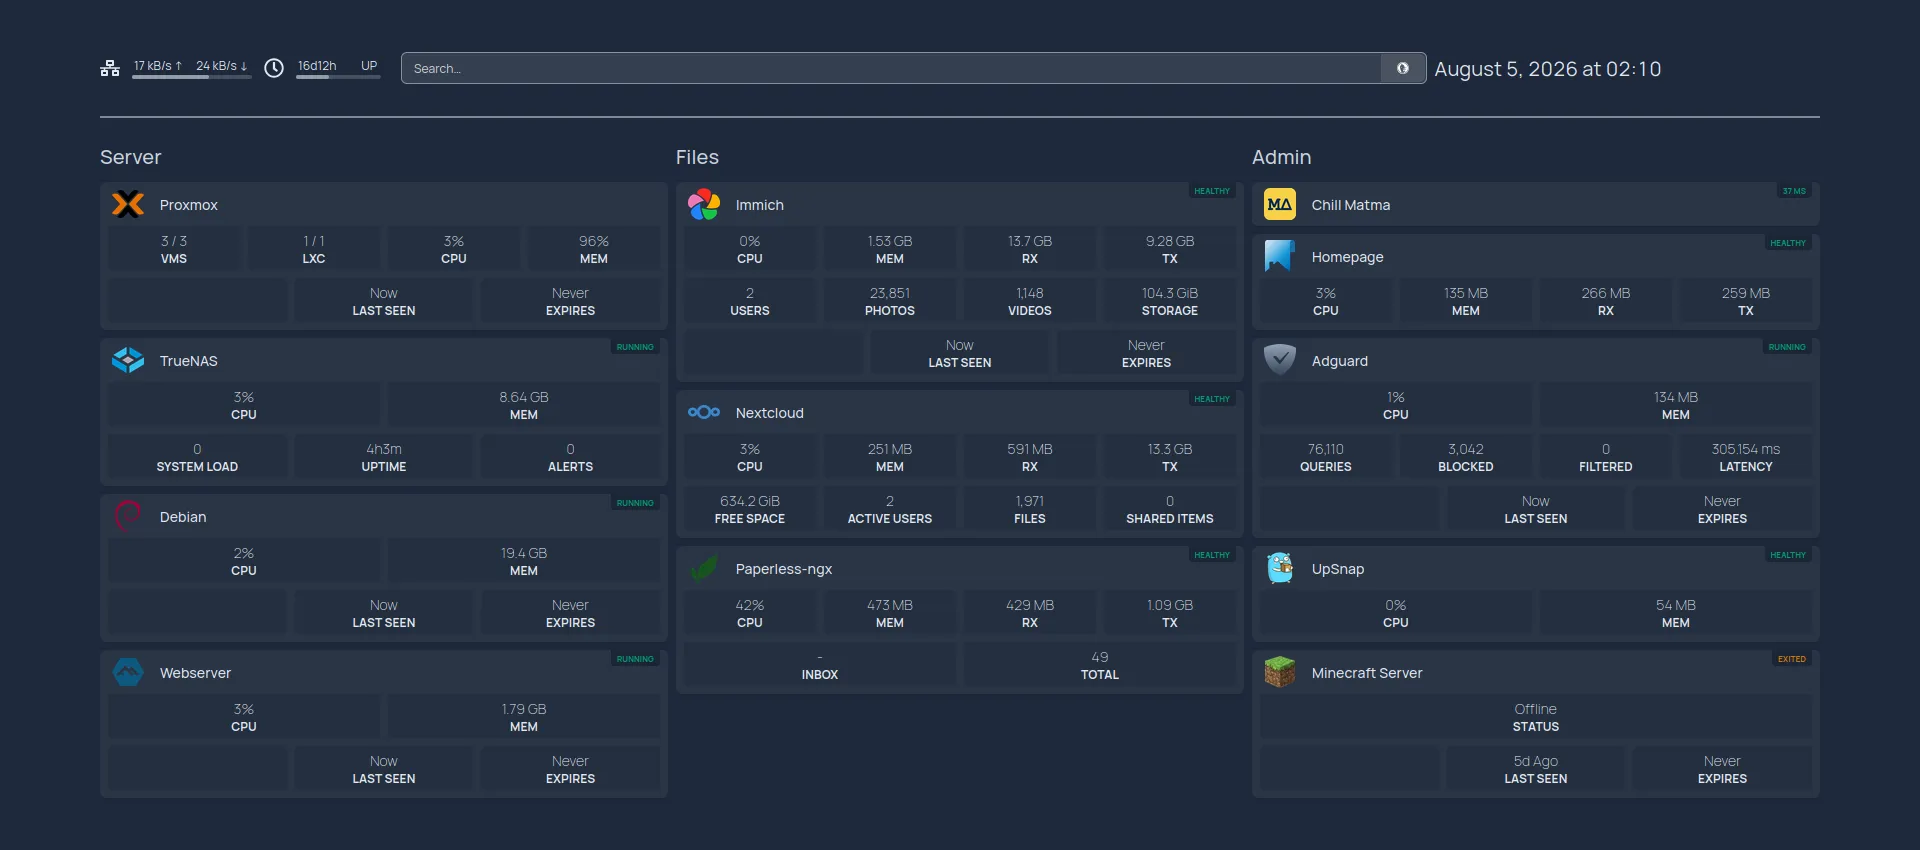
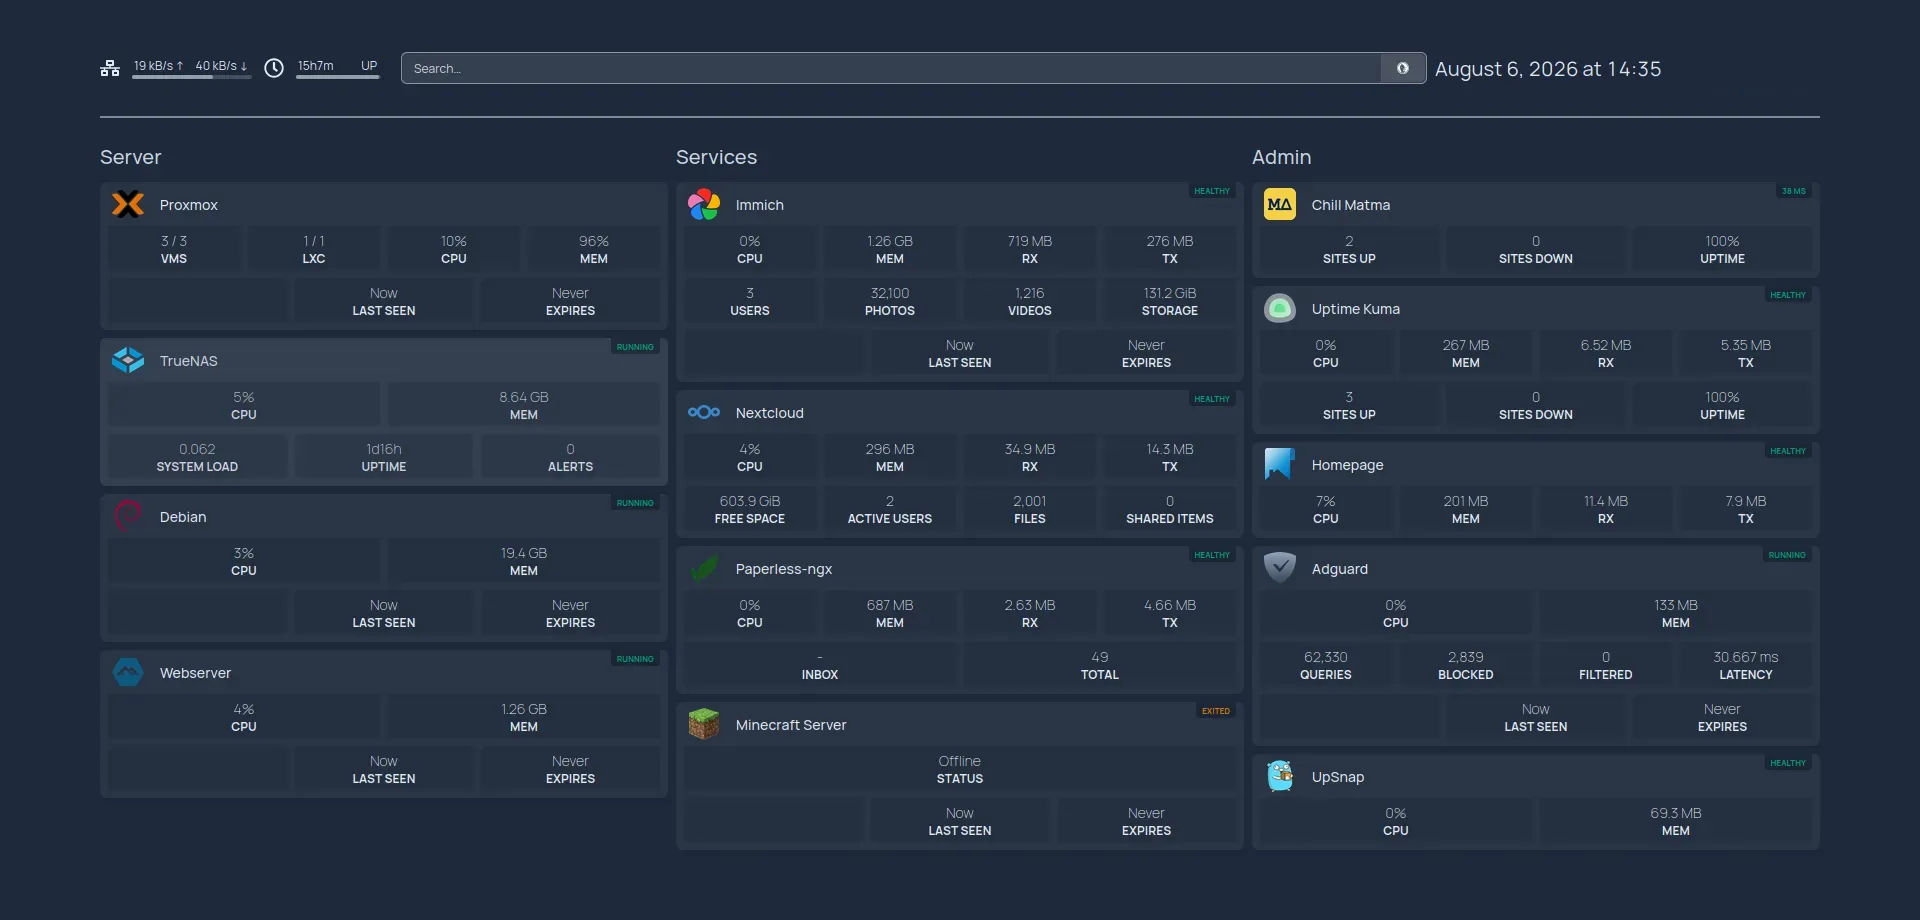
document formatting

diff --git a/content/posts/chill_matma/index.md b/content/posts/chill_matma/index.md
@@ -1,7 +1,7 @@
 ---
-date: '2026-08-05T01:12:01+02:00'
+date: "2026-08-05T01:12:01+02:00"
 draft: false
-title: 'Chill Matma'
+title: "Chill Matma"
 weight: 10
 cover:
   image: "chillmatma_landing.webp"
@@ -10,15 +10,25 @@ cover:
   relative: true
   hiddenInSingle: true
 ---
-### Introduction
+
+## Introduction
+
 [Chill Matma](https://chillmatma.pl/) is my biggest web development project yet. The idea is pretty simple, I am trying to make it easier for Polish highschool students to prepare for the Matura final exam. My website aggregates past exam sheets and makes it easier to learn from them as much as possible. The website is available under a custom .pl domain [chillmatma.pl](https://chillmatma.pl/)
 ![Website preview 1](chillmatma_landing.webp)
 ![Website preview 2](chillmatma_preview.webp)
+
 ### Framework
+
 The website runs on the Django Python framework. It was a great choice as it enabled me to develop the website really fast and make use of my python experience. The integrated SQLite database and models philosophy are great for tweaking the content and its attributes.
+
 ### Backend & Architecture
+
 The website uses Gunicorn as a worker server alongside the Nginx web server. For now, I am hosting it myself as part of [my Homelab project]({{< relref "posts/homelab" >}}). The setup consists of two Docker containers (Django and Nginx) running on a minimal Alpine Linux installation. All traffic is routed through a Cloudflare proxy, using the Cloudflare tunnel service running on a third Docker container.
+
 ### Frontend
+
 The frontend consists of pure HTML, CSS, and JavaScript. Mathematical formulas and equations are rendered using the KaTeX library.
+
 ### Plans for the future
+
 I would like to implement a custom exam sheet builder that can also generate downloadable PDFs. It would be a great way of leveraging the existing database of exam tasks.
